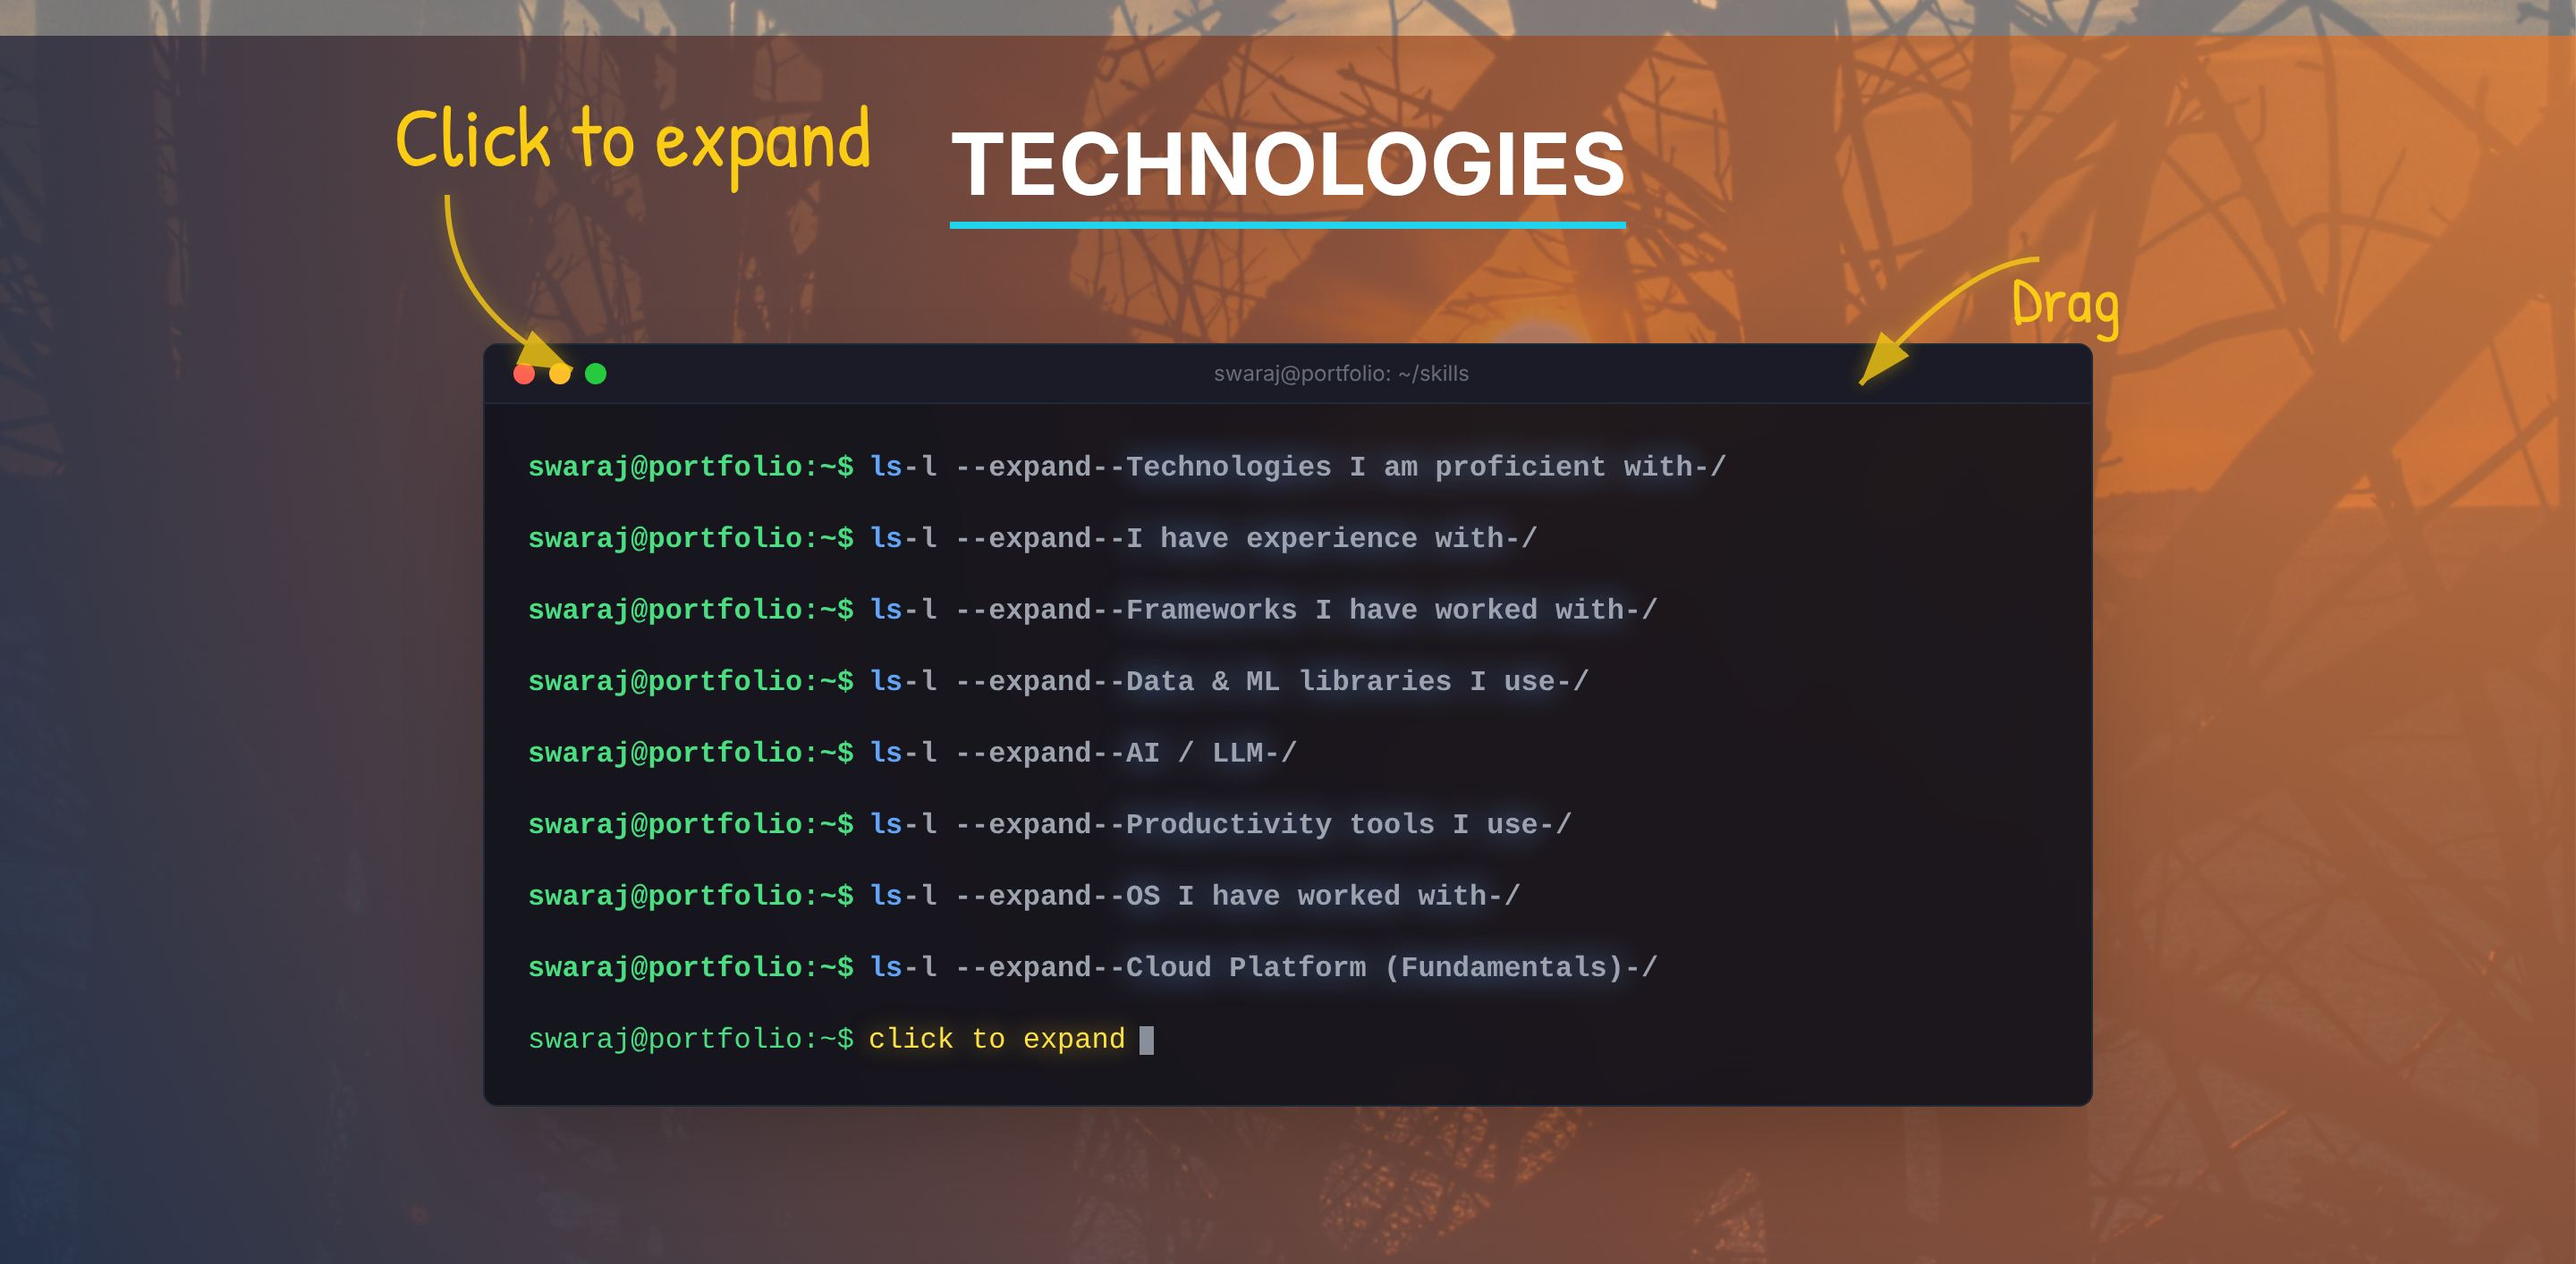
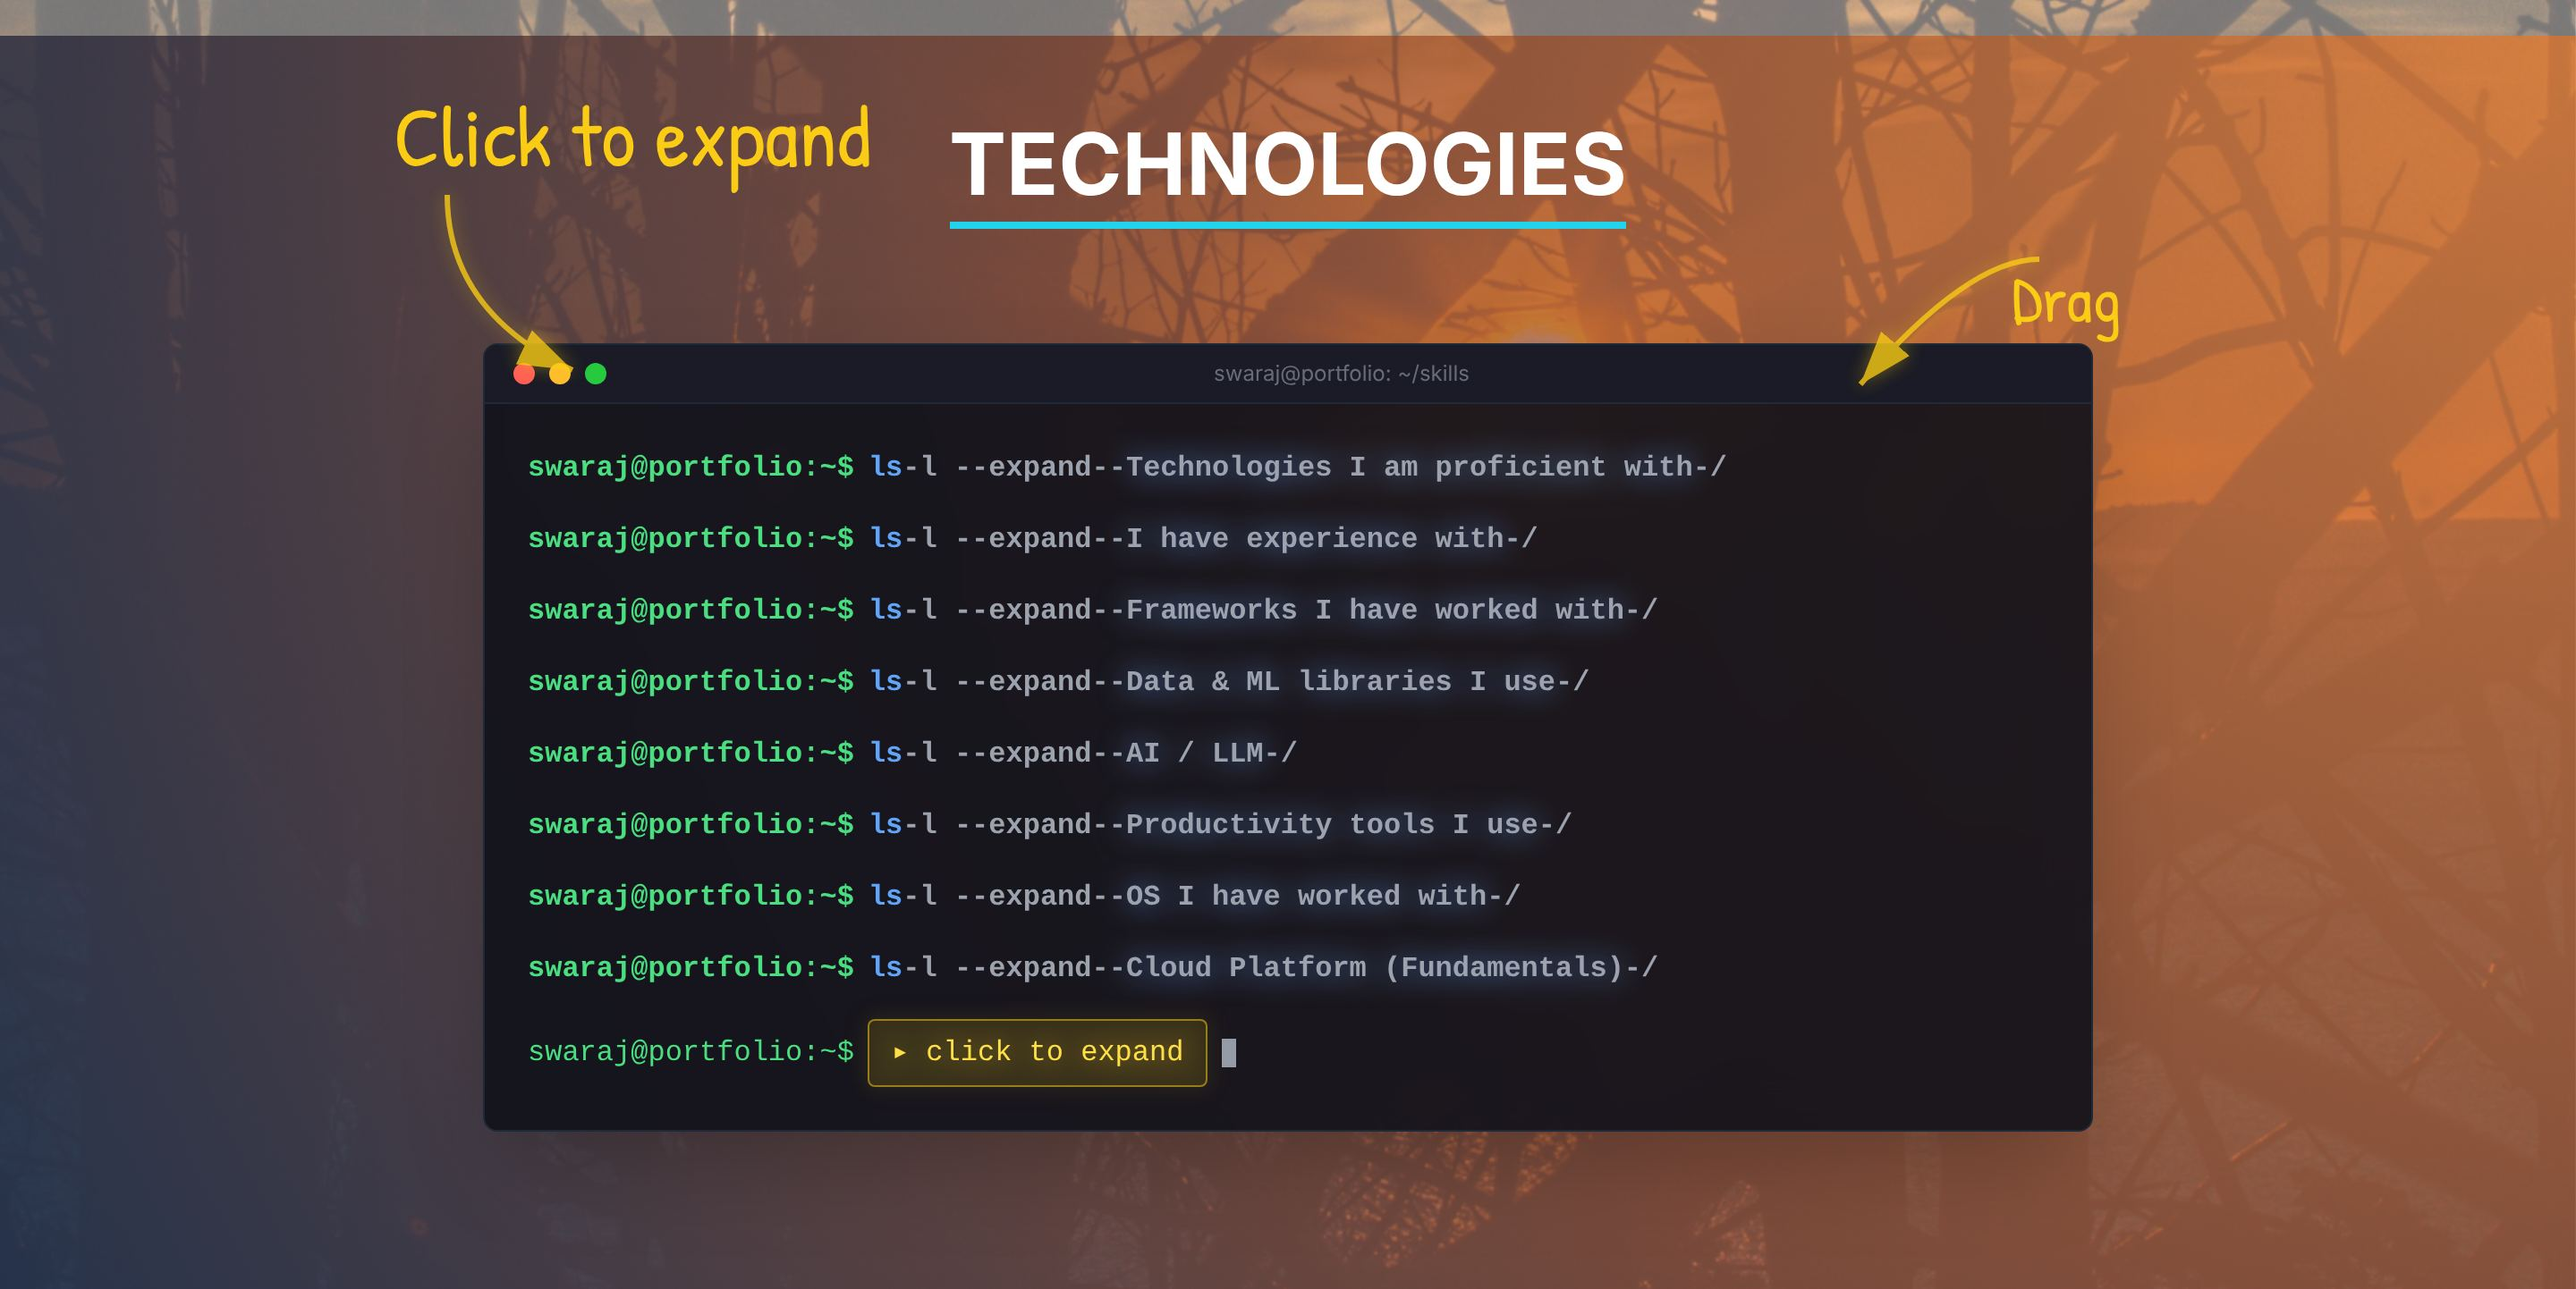
README: refresh screenshots for the showcase and collapsed Technologies
- Retake all section screenshots from current main
- Add close-ups of the three showcase devices (phone, laptop, Quest 3)
- Describe the featured showcase, the --mobile/--xr filters and the
  featured badge; Technologies expand button; where showcase data lives

Claude-Session: https://claude.ai/code/session_011MEdkacH3V9TTikrtbKY46

diff --git a/README.md b/README.md
@@ -24,14 +24,23 @@ A timeline styled like `git log --graph`. Each role is a "commit" card with a ha
 ![Experience section](docs/screenshots/experience.jpg)
 
 ### Projects
-- **Featured project:** CourseNotes, shown in a phone mock-up next to a terminal window.
-- **Project grid:** filter it with `ls --all`, `--ai`, `--web`, `--data` or `--desktop`. A project can belong to more than one filter.
+- **Featured showcase:** switch between featured projects with `~/featured$ ls`. Each one appears on the device it was built for, next to a terminal with its status and log lines:
+  - **CourseNotes** on a phone
+  - **GTMAgent** on a laptop, with the browser's address bar following each page
+  - **The Tipping Point** (Virtually Done) in a "Casting from Meta Quest 3" window that plays a gameplay clip
+
+  Screens advance on their own (pausing on hover); use the dots, the arrows or the edges of the screen to move through them.
+- **Project grid:** filter it with `ls --all`, `--ai`, `--web`, `--mobile`, `--xr`, `--data` or `--desktop`. A project can belong to more than one filter. Featured projects carry a **★ featured** badge that jumps to them in the showcase.
 - **Project details:** clicking a project opens a VS Code-style window with a README-style write-up, screenshots and links.
 
 ![Projects section](docs/screenshots/projects.jpg)
 
+| Phone | Laptop | Meta Quest 3 |
+|---|---|---|
+| ![CourseNotes on the phone](docs/screenshots/showcase-phone.jpg) | ![GTMAgent on the laptop](docs/screenshots/showcase-laptop.jpg) | ![The Tipping Point in the Quest 3 cast window](docs/screenshots/showcase-xr.jpg) |
+
 ### Technologies
-A terminal that lists skills in groups with `ls -l`. It starts **collapsed**; click it (or the yellow window button) to expand it, then click any entry to see a proficiency bar and description. The window can be dragged by its title bar and snaps back when released.
+A terminal that lists skills in groups with `ls -l`. It starts **collapsed**: use the **click to expand** button at the bottom (or the yellow window button, or anywhere in the terminal), then click any entry to see a proficiency bar and description. On desktop the window can be dragged by its title bar and snaps back when released.
 
 ![Technologies section](docs/screenshots/technologies.jpg)
 
@@ -95,12 +104,13 @@ All site content lives in data arrays at the top of each component, so most upda
 | Education and coursework | `educationData` in [`src/components/Education.jsx`](src/components/Education.jsx) |
 | Work experience | `experienceData` in [`src/components/Experience.jsx`](src/components/Experience.jsx) |
 | Projects and project filters | `projectData` and `categories` in [`src/components/Projects.jsx`](src/components/Projects.jsx) |
+| Featured showcase | Add a `showcase` block to a project in `projectData` (format documented at the top of the file); device frames are in [`src/components/showcase/`](src/components/showcase) |
 | Technologies | `techSections` in [`src/components/Technologies.jsx`](src/components/Technologies.jsx) |
 | Photography links | `photographyData` in [`src/components/Photography.jsx`](src/components/Photography.jsx) |
 | Bio and contact form | [`src/components/Contact.jsx`](src/components/Contact.jsx) |
 | Downloadable resume | Replace [`public/Resume.pdf`](public/Resume.pdf) (keep the file name) |
 
-Images used by projects and cards go in [`public/images/`](public/images); technology icons are in [`src/assets/`](src/assets).
+Images used by projects and cards go in [`public/images/`](public/images), videos in [`public/videos/`](public/videos); technology icons are in [`src/assets/`](src/assets).
 
 ---
 
